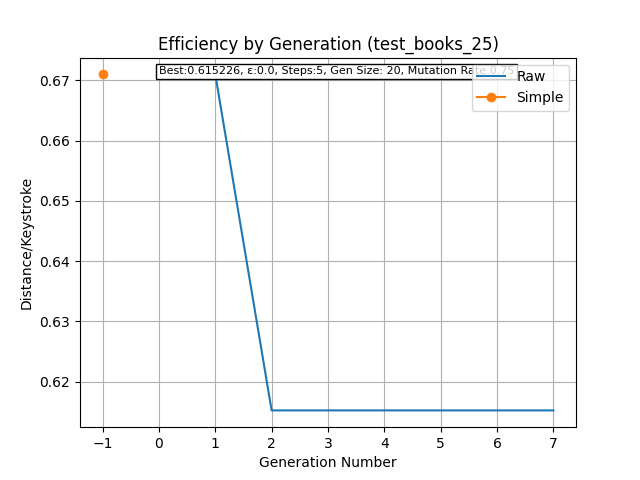
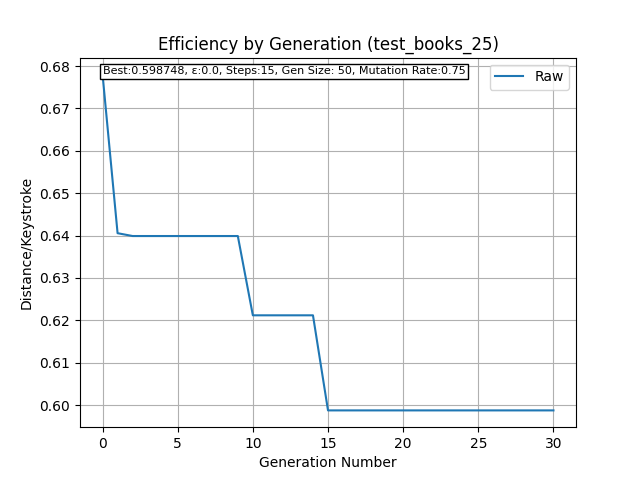
bug fixes -> major eff improvements

diff --git a/python/KBMSTR.py b/python/KBMSTR.py
@@ -18,22 +18,19 @@ def cls():
 
 
 class _KeyboardTool:
-    def __init__(self, finger_pos):
-        self.layout = None
+    def __init__(self, finger_pos, layout):
+        self.layout = layout
         self.mapping = {}
+        i = 0
+        for char in layout:
+            self.mapping[char] = i
+            i += 1
         self.finger_pos = finger_pos
         self.accumulated_cost = 0
         self.checkpoints = []
 
     def get_info(self):
         return self.layout, self.accumulated_cost, self.checkpoints
-
-    def set_layout(self, layout):
-        self.layout = layout
-        i = 0
-        for char in layout:
-            self.mapping[char] = i
-            i += 1
 
 
 class AnalyzeKeyboards:
@@ -59,9 +56,7 @@ class AnalyzeKeyboards:
     def update_keyboards(self, keyboards):
         self.__kb_tools = {}
         for keyboard in keyboards:
-            tool = _KeyboardTool(self.__og_finger_pos)
-            tool.set_layout(keyboard)
-            self.__kb_tools[keyboard] = tool
+            self.__kb_tools[keyboard] = _KeyboardTool(self.__og_finger_pos, keyboard)
 
     def _init_config(self, config):
         with open(config, 'r') as cfg:
@@ -91,7 +86,7 @@ class AnalyzeKeyboards:
                                             self.chars += 1
                                             if char not in valid_chars:
                                                 self.uncounted += 1
-                                            else:
+                                            elif char is not None:
                                                 self.dataset_chars.append(char)
                                 self.dataset_chars.append(None)
                             pbar2.update(1)
@@ -99,30 +94,32 @@ class AnalyzeKeyboards:
         cls()
 
     def _analyze_thread(self, tool, out_queue, distance_limits):
-        chk = len(self.dataset_chars) // len(distance_limits)
+        chk = 0
         count = 0
         for char in self.dataset_chars:
             try:
                 destination = tool.mapping[char]
             except KeyError:
-                tool.reset_finger_pos()
+                count += 1.
                 continue
             responsible_finger = self.__finger_duty[destination]
             transition = (tool.finger_pos[responsible_finger], destination)
             if transition[0] == transition[1]:
+                count += 1
                 continue
             tool.finger_pos[responsible_finger] = destination
             try:
                 tool.accumulated_cost += self.__cost_matrix[transition]
             except KeyError:
                 tool.accumulated_cost += self.__cost_matrix[(transition[1], transition[0])]
-            if count % chk == 0:
-                if tool.accumulated_cost > 0.95 * (distance_limits[count // chk]):
+            if chk < len(distance_limits) and count >= distance_limits[chk][0]:
+                if tool.accumulated_cost > 1.1 * distance_limits[chk][1]:
                     tool.accumulated_cost = inf
                     tool.checkpoints = None
                     break
                 else:
-                    tool.checkpoints.append(tool.accumulated_cost)
+                    tool.checkpoints.append((count, tool.accumulated_cost))
+                chk += 1
             count += 1
         out_queue.put((tool.layout, tool.accumulated_cost, tool.checkpoints))
 
@@ -130,7 +127,8 @@ class AnalyzeKeyboards:
         pbar = tqdm(total=len(self.__kb_tools))
         last_size = 0
         while (size := q.qsize()) < len(self.__kb_tools):
-            pbar.update(size - last_size)
+            if size != 0:
+                pbar.update(size - last_size)
             last_size = size
 
     def preform_analysis(self, distance_limits):
@@ -147,13 +145,16 @@ class AnalyzeKeyboards:
             worker.start()
         for worker in workers:
             worker.join()
-        proc.join()
         for i in range(0, len(self.__kb_tools)):
             res = out_queue.get()
+            self.__kb_tools[res[0]].accumulated_cost = res[1]
+            self.__kb_tools[res[0]].checkpoints = res[2]
+        proc.join()
         cls()
 
     def get_keyboards(self):
-        return self.__kb_tools.values()
+        return sorted(self.__kb_tools.values(),
+                      key=lambda x: x.accumulated_cost / (self.chars - self.uncounted))
 
 
 class GeneticKeyboards:
@@ -178,7 +179,8 @@ class GeneticKeyboards:
 
         self.__current_results = None
         self.__judge = AnalyzeKeyboards(dataset, original, config)
-        self.__checkpoints = [inf for i in range(0, len(self.__judge.dataset_chars) // char_checkpoint)]
+        self.__checkpoints = [(char_checkpoint * (i + 1), inf) for i in
+                              range(0, len(self.__judge.dataset_chars) // char_checkpoint)]
         self.__best_keyboard = None
         print("Calculating Fitness for Generation 0 (This may take a long time - depending on dataset size and "
               "generation size)")
@@ -222,14 +224,14 @@ class GeneticKeyboards:
                      fontsize=8,
                      bbox={"facecolor": "white", "pad": 2})
         return {
-                   'layout': self.__best_keyboard,
-                   'total_distance': self.__current_results[0].accumulated_cost,
-                   'total_chars': self.__judge.chars,
-                   'total_uncounted': self.__judge.uncounted,
-                   'efficiency': self.__current_results[0].accumulated_cost / (self.__judge.chars - self.__judge.uncounted),
-                   'dataset_names': self.__judge.filenames,
-                   'last_analysis': datetime.now().strftime("%Y-%m-%d-%H:%M:%S")
-               }, self.__sim_res
+            'layout': self.__best_keyboard,
+            'total_distance': self.__current_results[0].accumulated_cost,
+            'total_chars': self.__judge.chars,
+            'total_uncounted': self.__judge.uncounted,
+            'efficiency': self.__current_results[0].accumulated_cost / (self.__judge.chars - self.__judge.uncounted),
+            'dataset_names': self.__judge.filenames,
+            'last_analysis': datetime.now().strftime("%Y-%m-%d-%H:%M:%S")
+        }
 
     def _mutate(self, keyboard):
         length = len(keyboard)
@@ -242,29 +244,54 @@ class GeneticKeyboards:
         return keyboard
 
     def _crossover(self, parent_a, parent_b):
-        index_a, index_b = 0, 0
-        used = set()
-        child = []
         length = len(self.__original)
-        while len(used) < length:
-            if index_b == len or (bool(getrandbits(1)) and index_a < length):
-                if parent_a[index_a] not in used:
-                    child.append(parent_a[index_a])
-                    used.add(parent_a[index_a])
-                index_a += 1
-            elif index_b < length:
-                if parent_b[index_b] not in used:
-                    child.append(parent_b[index_b])
-                    used.add(parent_b[index_b])
-                index_b += 1
+        order = sample([x for x in range(0, length)], length)
+        child = [None for x in range(0, length)]
+        used = set()
+        needed_i = set()
+        for i in order:
+            if bool(getrandbits(1)) and parent_a[i] not in used:
+                child[i] = parent_a[i]
+                used.add(parent_a[i])
+            elif parent_b[i] not in used:
+                child[i] = parent_b[i]
+                used.add(parent_b[i])
+            else:
+                needed_i.add(i)
+        for i in needed_i:
+            down = -1
+            up = 1
+            while True:
+                if i + up == length or (bool(getrandbits(1)) and i + down >= 0):
+                    if bool(getrandbits(1)) and parent_a[i + down] not in used:
+                        child[i] = parent_a[i + down]
+                        used.add(parent_a[i + down])
+                        break
+                    elif parent_b[i + down] not in used:
+                        child[i] = parent_b[i + down]
+                        used.add(parent_b[i + down])
+                        break
+                    else:
+                        down -= 1
+                elif i + up < length:
+                    if bool(getrandbits(1)) and parent_a[i + up] not in used:
+                        child[i] = parent_a[i + up]
+                        used.add(parent_a[i + up])
+                        break
+                    elif parent_b[i + up] not in used:
+                        child[i] = parent_b[i + up]
+                        used.add(parent_b[i + up])
+                        break
+                    else:
+                        up += 1
         return "".join(self._mutate(child))
 
     def _calculate_fitness(self):
         self.__judge.update_keyboards(self.__current_gen)
         self.__judge.preform_analysis(self.__checkpoints)
-        self.__current_results = sorted(self.__judge.get_keyboards(), key=lambda x: x.accumulated_cost / (self.__judge.chars - self.__judge.uncounted))
-        self.__current_gen = [x.layout for x in self.__current_results]
+        self.__current_results = self.__judge.get_keyboards()
         self.__best_keyboard = self.__current_results[0].layout
+        self.__checkpoints = self.__current_results[0].checkpoints
         top_preform = self.__current_results[0].accumulated_cost / (self.__judge.chars - self.__judge.uncounted)
         self.__delta = min(abs(self.__current_gen_top_performance - top_preform), top_preform)
         if self.__delta <= self.__epsilon:
@@ -328,14 +355,14 @@ def main(args):
         metavar="NAME",
         type=str,
         default="",
-        help="Name the keyboard being generated. (.raw/.simplified) are added with respect to result_type. Default "
-             "naming scheme: yyyy/mm/dd:hh:mm:ss.(raw/simplified)"
+        help="Name the keyboard being generated. Default "
+             "naming scheme: yyyy/mm/dd:hh:mm:ss.raw"
     )
     parser.add_argument(
         "-gen_size",
         metavar="SIZE",
         type=int,
-        default=100,
+        default=25,
         help="Chose the number of members for each generation. (Default: 100)"
     )
     parser.add_argument(
@@ -390,7 +417,7 @@ def main(args):
     if args.analyze:
         analysis = AnalyzeKeyboards(args.dataset, keyboard['layout'], args.config)
         analysis.update_keyboards([keyboard['layout']])
-        analysis.preform_analysis([inf])
+        analysis.preform_analysis([(0, inf)])
         results = list(analysis.get_keyboards())
         keyboard['total_distance'] = results[0].accumulated_cost
         keyboard['total_chars'] = analysis.chars
@@ -403,7 +430,7 @@ def main(args):
         exit()
     generator = GeneticKeyboards(keyboard['layout'], args.dataset, args.char_checkpoint, args.config, args.gen_size,
                                  args.epsilon, args.steps_to_converge, args.mutation_rate, args.save_stats)
-    raw, simplified = generator.generate()
+    raw = generator.generate()
     if args.save_stats:
         plt.title(f"Efficiency by Generation ({args.name if args.name else raw['last_analysis']})")
         plt.xlabel("Generation Number")
@@ -411,18 +438,22 @@ def main(args):
         plt.legend()
         plt.grid()
         plt.savefig(f"run_stats/{args.name if args.name else raw['last_analysis']}.genstats.png")
-    with open(f"keyboards/{args.name if args.name else raw['last_analysis']}.raw.json", "w") as json_file:
-        raw['name'] = f"keyboards/{args.name if args.name else raw['last_analysis']}.raw"
+    with open(f"keyboards/{args.name if args.name else raw['last_analysis']}.json", "w") as json_file:
+        raw['name'] = f"keyboards/{args.name if args.name else raw['last_analysis']}"
         dump(raw, json_file)
-    if simplified:
-        with open(f"keyboards/{args.name}.simplified.json", "w") as json_file:
-            simplified['name'] = f"keyboards/{args.name if args.name else simplified['last_analysis']}.simplified"
-            dump(simplified, json_file)
     cls()
-    print(f"Finished running KBMSTR with args:\n\n\tkeyboard={args.keyboard}\n\tdataset={args.dataset}\n\t"
-          f"name={args.name}\n\tsimplify={args.simplify}\n\tgen_size={args.gen_size}\n\t"
-          f"mutation_rate={args.mutation_rate}\n\tepsilon={args.epsilon}\n\tsteps_to_converge={args.steps_to_converge}"
-          f"\n\tsave_stats={args.save_stats}\n\tanalyze={args.analyze}\n\tdisplay={args.display}\n")
+    print(f"Finished running KBMSTR with args:\n\n\t"
+          f"keyboard={args.keyboard}\n\t"
+          f"dataset={args.dataset}\n\t"
+          f"char_checkpoint={args.char_checkpoint}\n\t"
+          f"name={args.name}\n\t"
+          f"gen_size={args.gen_size}\n\t"
+          f"mutation_rate={args.mutation_rate}\n\t"
+          f"epsilon={args.epsilon}\n\t"
+          f"steps_to_converge={args.steps_to_converge}\n\t"
+          f"save_stats={args.save_stats}\n\t"
+          f"analyze={args.analyze}\n\t"
+          f"display={args.display}\n")
 
 
 if __name__ == "__main__":
